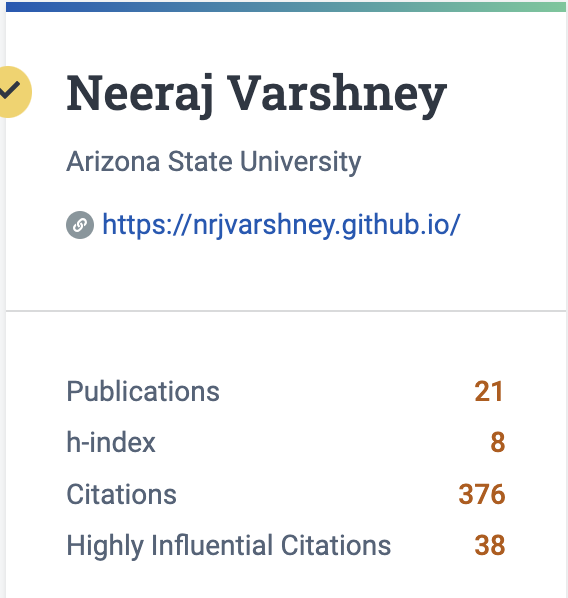
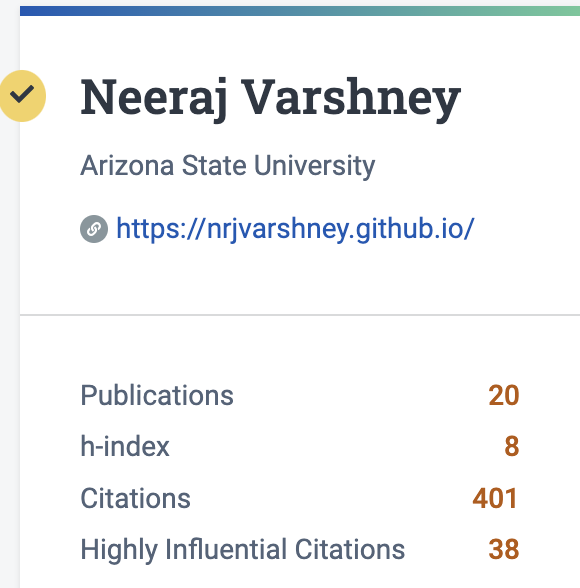
updating citations news

diff --git a/index.html b/index.html
@@ -197,11 +197,11 @@
     <div class="row p-0">      
       <div class="col-sm-2 p-0">
         <span class="badge danger-color-dark font-weight-bold text-uppercase align-middle date ml-3">
-         Aug 15, 2023
+         Aug 31, 2023
         </span>
       </div>
       <div class="col-sm-10 mt-2 mt-sm-0 ml-3 ml-md-3 p-0 font-weight-light text">
-        <p>Crossed 350 citations.
+        <p>Crossed 400 citations.
           <style type="text/css"> .pha { width: 40%; right: 8.2%; top: 18.5%; } </style>
                     <div class="pha"><img src = "./assets/img/citations.png" style="width:100%;" ></div>
         </p>
